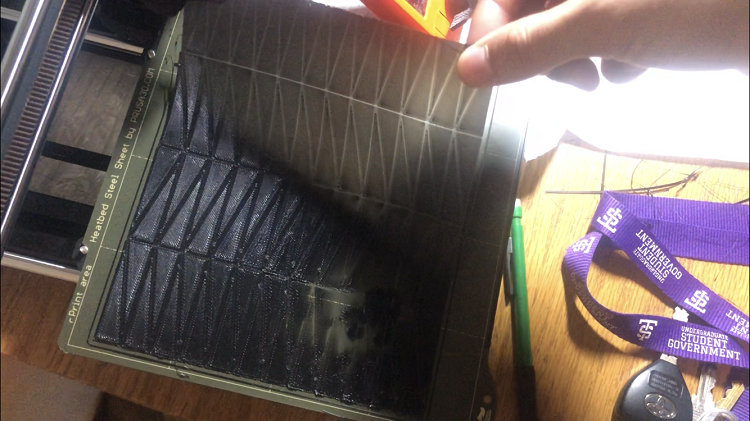
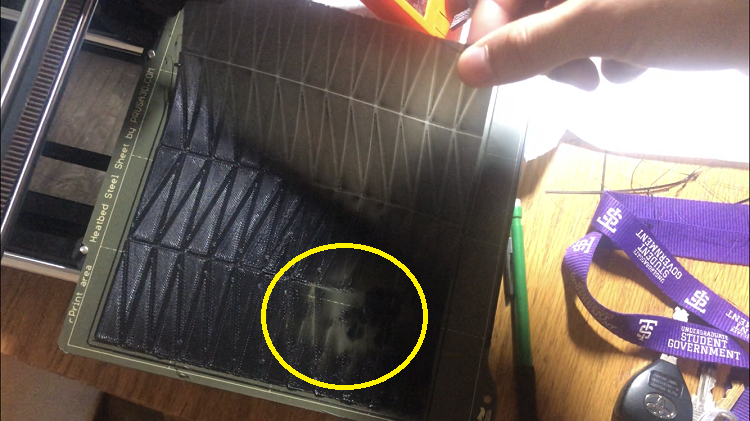
Origami Article Update

diff --git a/_posts/2021-12-09-3D_Printed_Origami.md b/_posts/2021-12-09-3D_Printed_Origami.md
@@ -8,42 +8,49 @@ image: plasticorigami1.png
 ## Project Details:
 #### Co: Me <br>Supervisor: Me <br>Dates Active: December 2021
 <br>
-I picked up my first origami book at the age of 6: The complete book of origami by Robert J. Lang. 
-
-Over the last few years I've gotten into more complex origami that involves pre-creasing designs to a blueprint--a crease pattern--before collapsing them by folding each pre-made crease in a specific order.
+After being introduced to origami when I was 6 by a book by Robert J. Lang, I've evolved to explore more complex origami that involves pre-creasing designs to a crease pattern before collapsing them by folding each pre-made crease in a specific order.
 The process of pre-creasing can be extremely tedious, taking hours to make hundreds of folds while weighing the risk of human error. 
 
-<img src="\media\Project Pics 2021\PlasticOrigami\dollarkoi.jpg" alt="Case in point"/>
+<img src="\media\Project Pics 2021\PlasticOrigami\precreasesteps.PNG" alt="26 steps of pre creasing before folding the actual model..."/>
+<img src="\media\Project Pics 2021\PlasticOrigami\dollarkoi.jpg" alt="A complex origami requiring a crease pattern."/>
 
 Mistakes add up and inaccuracies can turn your art project into plain recycling.
 
-To leapfrog the step of pre-creasing, I decided to create my own "paper" by modeling a thin plane in SolidWorks and extruding even thinner cuts along the crease pattern. The specific model I decided to craft is called "Spring Into Action" by Jeff Beynon.
+To leapfrog the step of pre-creasing, I decided to create my own "pre-creased paper" by modeling a thin plane in SolidWorks and extruding even thinner cuts along the crease pattern. The specific model I decided to craft is called "Spring Into Action" by Jeff Beynon.
 
 <img src="\media\Project Pics 2021\PlasticOrigami\springintoaction.jpg" alt="Paper model in question"/>
 
 I was only able to print ~1/6th of the model due to size limitations of my trusty Prusa Mini.
 
-For V0, the Prusa Slicer Settings were set to:
+For v0 of the plastic "Spring into Action", the Prusa Slicer Settings were set to:
 - 2 bottom layer at 0.05mm.
 - 2 extruded layers at 0.05mm each.
 
-<img src="\media\Project Pics 2021\PlasticOrigami\plasticorigami3.png" alt="Plastic Sheet of *paper* "/>
 <img src="\media\Project Pics 2021\PlasticOrigami\plasticorigami1.png" alt=""/>
 <img src="\media\Project Pics 2021\PlasticOrigami\springintoaction.png" alt=""/>
 
 Results: Print bed isn't always completely level or adhesion in certain areas isn't always as good--this is extremely important when printing thin layers that are critical to the form and function of your product.
 
-I washed the print bed with soap and water to get rid of any oil that could cause the critical-to-function 1st layer to misadhere and readjusted the print bed settings.
+<img src="\media\Project Pics 2021\PlasticOrigami\plasticorigami3.png" alt="Plastic Sheet of *paper* "/>
 
-For V1, the Prusa Slicer Settings were set to:
+I washed the print bed with soap and water to get rid of any oil that wouldn't allow the critical-to-function 1st layer to adhere.
+
+For v1 of the plastic "Spring into Action", the Prusa Slicer Settings were set to:
 - 1 bottom layer at 0.05mm.
 - 1 extruded layers at 0.05mm each.
 
 The result when collapsing was a MUCH thinner paper that responded more easily to folding. I was able to add another 2 "rings" to the model which was very satisfying.
 
-I sent my results to Robert J. Lang himself while inquiring if he's worked on anything similar. He replied with a link to his Origami lamp that he designed, and that is in production. This piqued another thought of curiosity...What if I modeled a lithophane onto the surface of this lamp and created a custom graphic to the panels of the base or shade?
+<img src="\media\Project Pics 2021\PlasticOrigami\spring2.jpeg" alt="Fixed!"/>
+
+I sent my results to Robert J. Lang himself while inquiring if he's worked on anything similar. <img src="\media\Project Pics 2021\PlasticOrigami\robertjlangresponse.PNG" alt="star struck!"/>
+[He replied with a link to his Origami lamp that he designed](https://www.thingiverse.com/thing:3896846). 
+
+This piqued another thought of curiosity...What if I modeled a lithophane onto the surface of this lamp and created a custom graphic to the panels of the base or shade?
 
 I found the lamp model on Thingiverse and a free lithophane generator. I generated the STL of the beloved video game character "Donkey Kong" before adding it to the lamp model in SolidWorks. 
+
+<img src="\media\Project Pics 2021\PlasticOrigami\dklithophane.PNG" alt="Donkey Kong December"/>
 
 The extremely high mesh density of the .STL did not play nice with SolidWorks so I figured out a few mesh settings to allow me to actually manipulate the models:
 - Import the STL as a surface grpahic
@@ -56,11 +63,14 @@ I needed to cut extrude through the lithophane and generate planes in certain ar
 
 I joined the two parts (panel-adjusted lithophane and lamp geometries) in an assembly before exporting to a final STL.
 
-I set up the print and waited ~11 hours to find that my print bed was again a limiting factor in creating a "successful" lamp. Everything printed smoothly but the panels were far too thick in order to fold. The thinness of the creases were still too thick to fold. My lamp print ended up cracking as I attempted to fold it. The base layer was too thick.
+<img src="\media\Project Pics 2021\PlasticOrigami\dksolidworks.PNG" alt="Lithophane adjusted STL"/>
+
+I set up the print and waited ~8 hours to find that my print bed was again a limiting factor in creating a "successful" lamp. Everything printed smoothly but the panels were far too thick in order to fold. The thinness of the creases were still too thick to fold. My lamp print ended up cracking as I attempted to fold it. The base layer was too thick.
 
 I adjusted the 3D model such that the base layer of plastic was only 0.05mm, exactly like the "Spring into Action" model. After printing, it successfully collapsed.
 
-I attempted a 2nd folding lithophane lamp, this time adding graphics of my sister's beloved boy band, BTS. After importing the SolidWorks and making the aforementioned adjustments, I sent the model to my printer and successfully created another lamp.
+<img src="\media\Project Pics 2021\PlasticOrigami\dk1.png" alt="Flat Lithophane Lamp"/>
+<img src="\media\Project Pics 2021\PlasticOrigami\dk2.png" alt="Folded Lithophane Lamp"/>
 
 Things I learned:
 - SolidWorks STL manipulation
